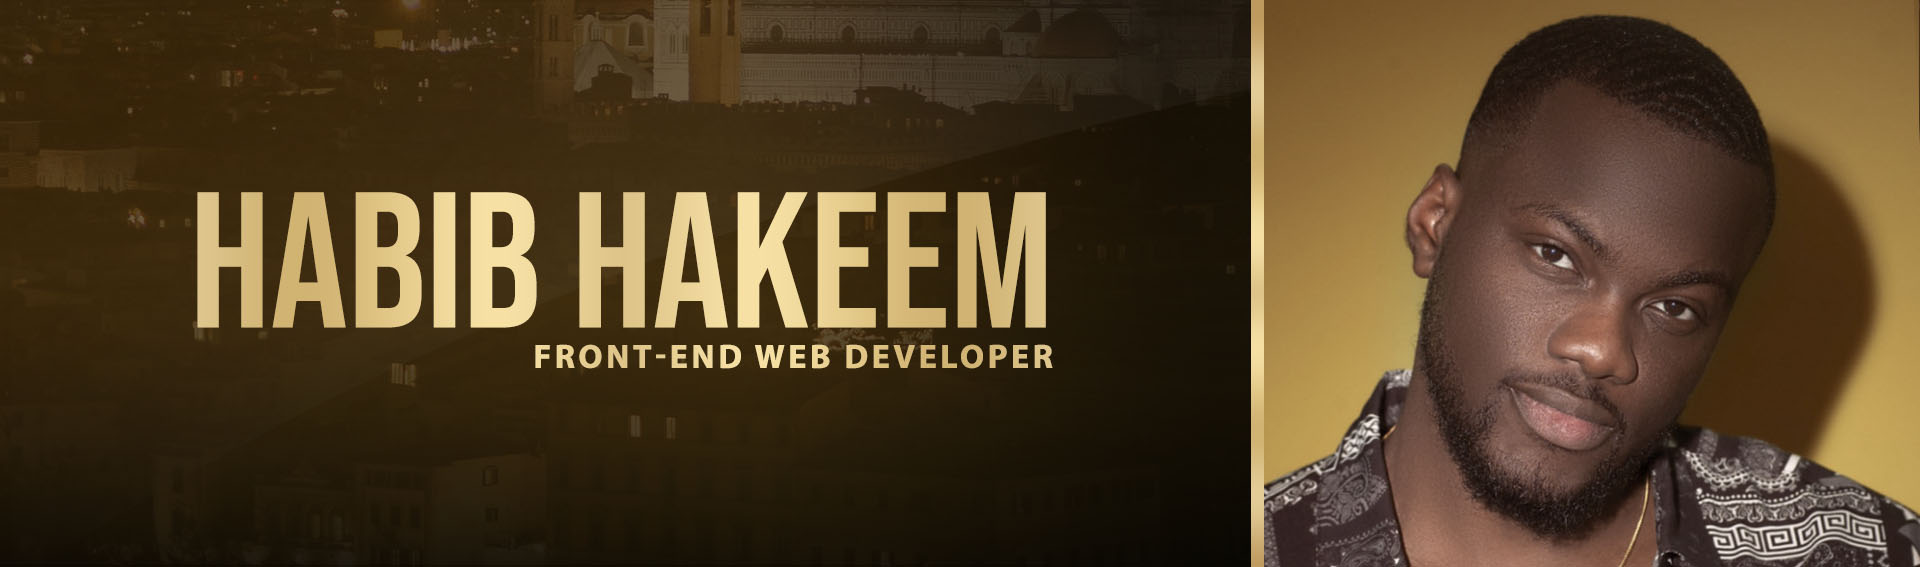
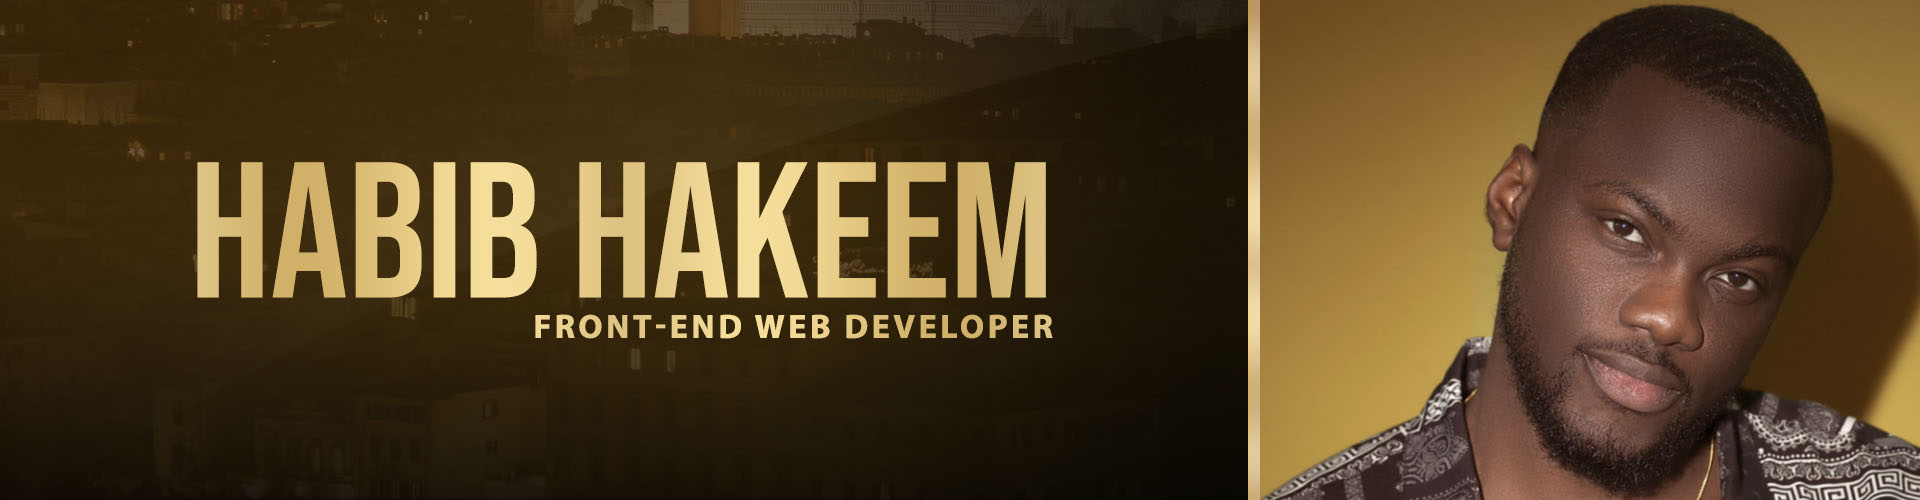
Structured html and added css grid

diff --git a/index.html b/index.html
@@ -12,7 +12,7 @@
 <body>
   <!-- main logo / nav -->
   <header class="main-header">
-    <h1 class="logo">Habib Hakeem</h1>
+    <h1 class="logo">PORTFOLIO</h1>
     <nav class="navbar">
       <ul class="nav-list">
         <li><a href="#about">About me</a></li>
@@ -25,54 +25,54 @@
 
   <!-- hero banner -->
   <section class="hero-banner">
-    <img src="" alt="">
-    <div class="subtitle">
+
+    <!-- <div class="subtitle">
       <h2>Web Developer</h2> 
-    </div>
+    </div> -->
+
   </section>
 
-  <main class="page-wrapper">
+  <main class="page-wrapper" id="content-grid">
     <!-- about me -->
-    <section class="page-section" id="about">
-      
+    <section class="page-section-about" id="about">
       <h2>About Me</h2>
-      
-      <p>
-        Hello and welcome to my portfolio! I'm Habib Hakeem, a passionate and ambitious web developer with a genuine love for crafting digital experiences. In the short time I've been immersed in this exciting field, I've already honed my skills and gained valuable hands-on experience. Every project I undertake is an opportunity for me to blend creativity and technical expertise to bring unique visions to life. I thrive on challenges and am dedicated to staying at the forefront of design trends and emerging technologies. Join me on this exciting journey as I continue to grow, innovate, and create stunning and intuitive websites that captivate and engage audiences.
-      </p>
+    </section>  
 
+    <p id="aboutMeText">
+        Hello and welcome to my portfolio! <br> 
+        <br>
+        I'm Habib Hakeem, a passionate and ambitious web developer with a genuine love for crafting digital experiences. In the short time I've been immersed in this exciting field, I've already honed my skills and gained valuable hands-on experience. Every project I undertake is an opportunity for me to blend creativity and technical expertise to bring unique visions to life. I thrive on challenges and am dedicated to staying at the forefront of design trends and emerging technologies. Join me on this exciting journey as I continue to grow, innovate, and create stunning and intuitive websites that captivate and engage audiences.
+    </p>
+
+        <!-- portfolio container -->
+    <section class="page-section-work" id="work">
+      <h2>Work</h2>      
     </section>
 
-    <!-- portfolio container -->
-    <section class="page-section work" id="work">
+    <section id="workBanner">
       
-      <h2>Work</h2>
+    </section>
 
+    <section class="portfolio-display" id="Prework">
       <article class="big-card-work">
-        <h3>Prework Study Guide</h3>
+          <h3>Prework Study Guide</h3>
       </article>
-
-      
-      <article class="four-card-work">
-        <h3>Horiseon Website Refactoring</h3>
-      </article>
-
-      
-      <article class="four-card-work">
-        <h3>Portfolio Website</h3>
-      </article>
-
-      
-      <article class="four-card-work">
-        <h3>LED Wall</h3>
-      </article>
-
-      
-      <article class="four-card-work">
-        <h3>Calculator</h3>
-      </article>
-
     </section>
+
+      
+    <article class="four-card-work" id="refactoring">
+        <h3>Horiseon Website Refactoring</h3>
+    </article>
+
+      
+    <article class="four-card-work" id="pf-website">
+      <h3>Portfolio Website</h3>
+    </article>
+
+    
+    <article class="four-card-work" id="LED">
+      <h3>LED Wall</h3>
+    </article>
 
     <!-- contact -->
     <section class="page-section contact" id="contact">
@@ -80,8 +80,8 @@
       <p>
         <ul>
           <li>+447736069582</li>
-          <li><a href="habib.hakeem@yahoo.com">habib.hakeem@yahoo.com</a></li>
-          <li><a href="https://github.com/HabibStackz">Github</a></li>
+          <li><a target="_blank" href="habib.hakeem@yahoo.com">habib.hakeem@yahoo.com</a></li>
+          <li><a target="_blank" href="https://github.com/HabibStackz">Github</a></li>
         </ul>
       </p>
     </section>

diff --git a/css/style.css b/css/style.css
@@ -27,8 +27,8 @@ body {
   padding-right: 20px;
   padding-left: 100px;
   width: fit-content;
-  color: white;
-  background-color: rgb(43, 102, 121);
+  color: rgb(27, 27, 27);
+  background-color:#f6e0a4;
 }
 
 .navbar {
@@ -47,27 +47,106 @@ body {
 .nav-list a{
   margin-right: 100px;
   text-decoration: none;
-  color: white;
+  color: #f6e0a4;
 }
 
 .hero-banner {
-  height: 400px;
+  height: 500px;
   width: 100%;
   background-position: center;
   background-size: cover;
-  background-color: black;
-  background-image: url(./images/hero.jpg);
+  background-image: url("../images/hero.jpg");
 }
 
-h1,
-h2,
-h3,
-h4,
-h5,
-h6 {
-  margin: 0;
+#content-grid {
+  margin: 0px 5%;
+  display: grid;
+  grid-template-columns: 25% 25% 25%;
+  grid-template-rows: 25% 25% 25%;
+  row-gap: 20px;
+  column-gap: 20px;
+  grid-template-areas: 
+  "about aboutMeText aboutMeText"
+  "work workBanner workBanner"
+  "work workBanner workBanner"
+  "work LED prework"
+  "work pf-website refactoring"
+   "work contact contact";
 }
 
-p {
-  margin: 0;
+#about {
+  margin-top: 0px;
+  margin-right:80px;
+  grid-area: about;
+  text-align: right;
+  font-size: 30px;
+}
+
+#aboutMeText {
+  grid-area: aboutMeText;
+  font-size: 14px;
+  margin-top: 50px;
+  
+}
+
+#work {
+  grid-area: work;
+  margin-top: 0px;
+  margin-right:80px;
+  text-align: right;
+  font-size: 30px;
+}
+
+#workBanner {
+  grid-area: workBanner;
+  background-image: url("../images/02-hero-bg.jpg");
+  margin-top: 40px;
+  background-size: cover;
+
+}
+
+#Prework {
+  grid-area: prework;
+  background-image: url("../images/02-portfolio-3.jpg");
+  height: 200px;
+  background-size: cover;
+}
+
+#refactoring {
+  grid-area: refactoring;
+  background-image: url("../images/02-run-buddy.jpg");
+  height: 200px;
+  background-size: cover;
+}
+
+#pf-website {
+  grid-area: pf-website;
+  background-image: url("../images/hero.jpg");
+  height: 200px;
+  background-size: cover;
+}
+
+#LED {
+  grid-area: LED;
+  background-image: url("../images/02-portfolio-1.jpg");
+  background-size: cover;
+  }
+
+h3 {
+  background-color: #f6e0a4;
+  width: fit-content;
+  padding: 10px;
+  font-size: large;
+  }
+/* #calculator {
+  grid-area: calculator;
+  background-image: url("../images/02-portfolio-2.jpg");
+} */
+
+#contact {
+  grid-area: contact;
+}
+
+#resume {
+  grid-area: resume;
 }
